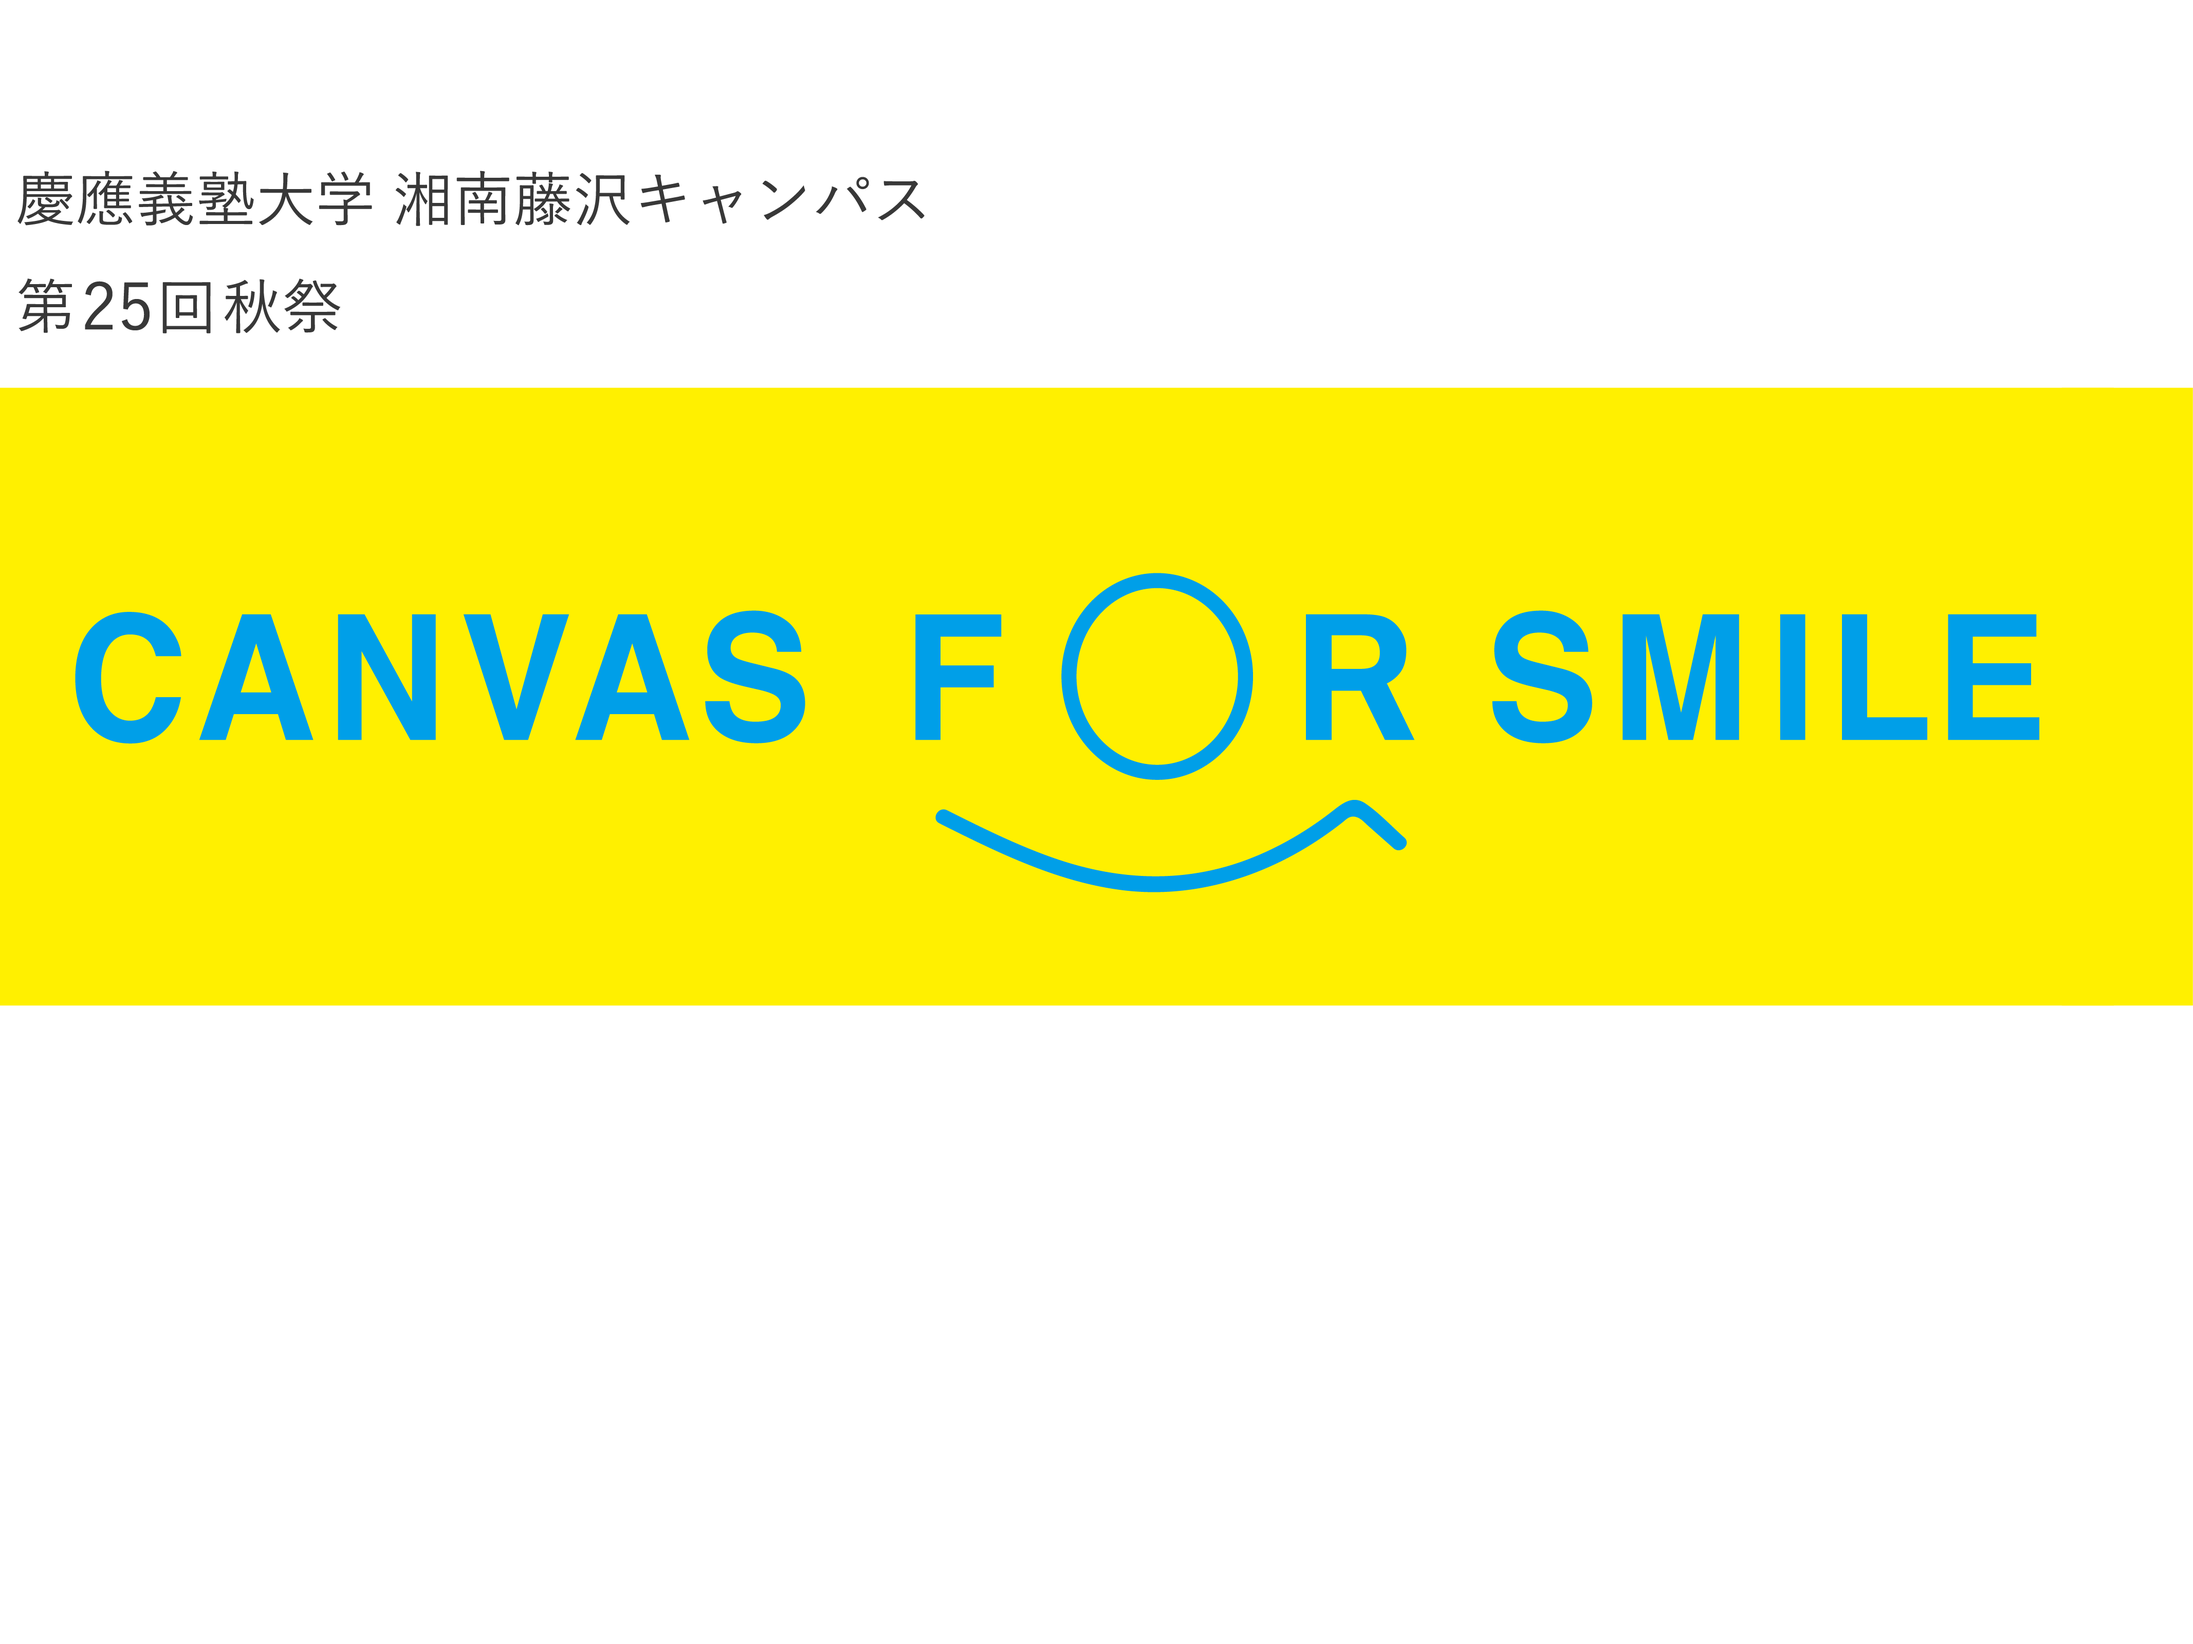
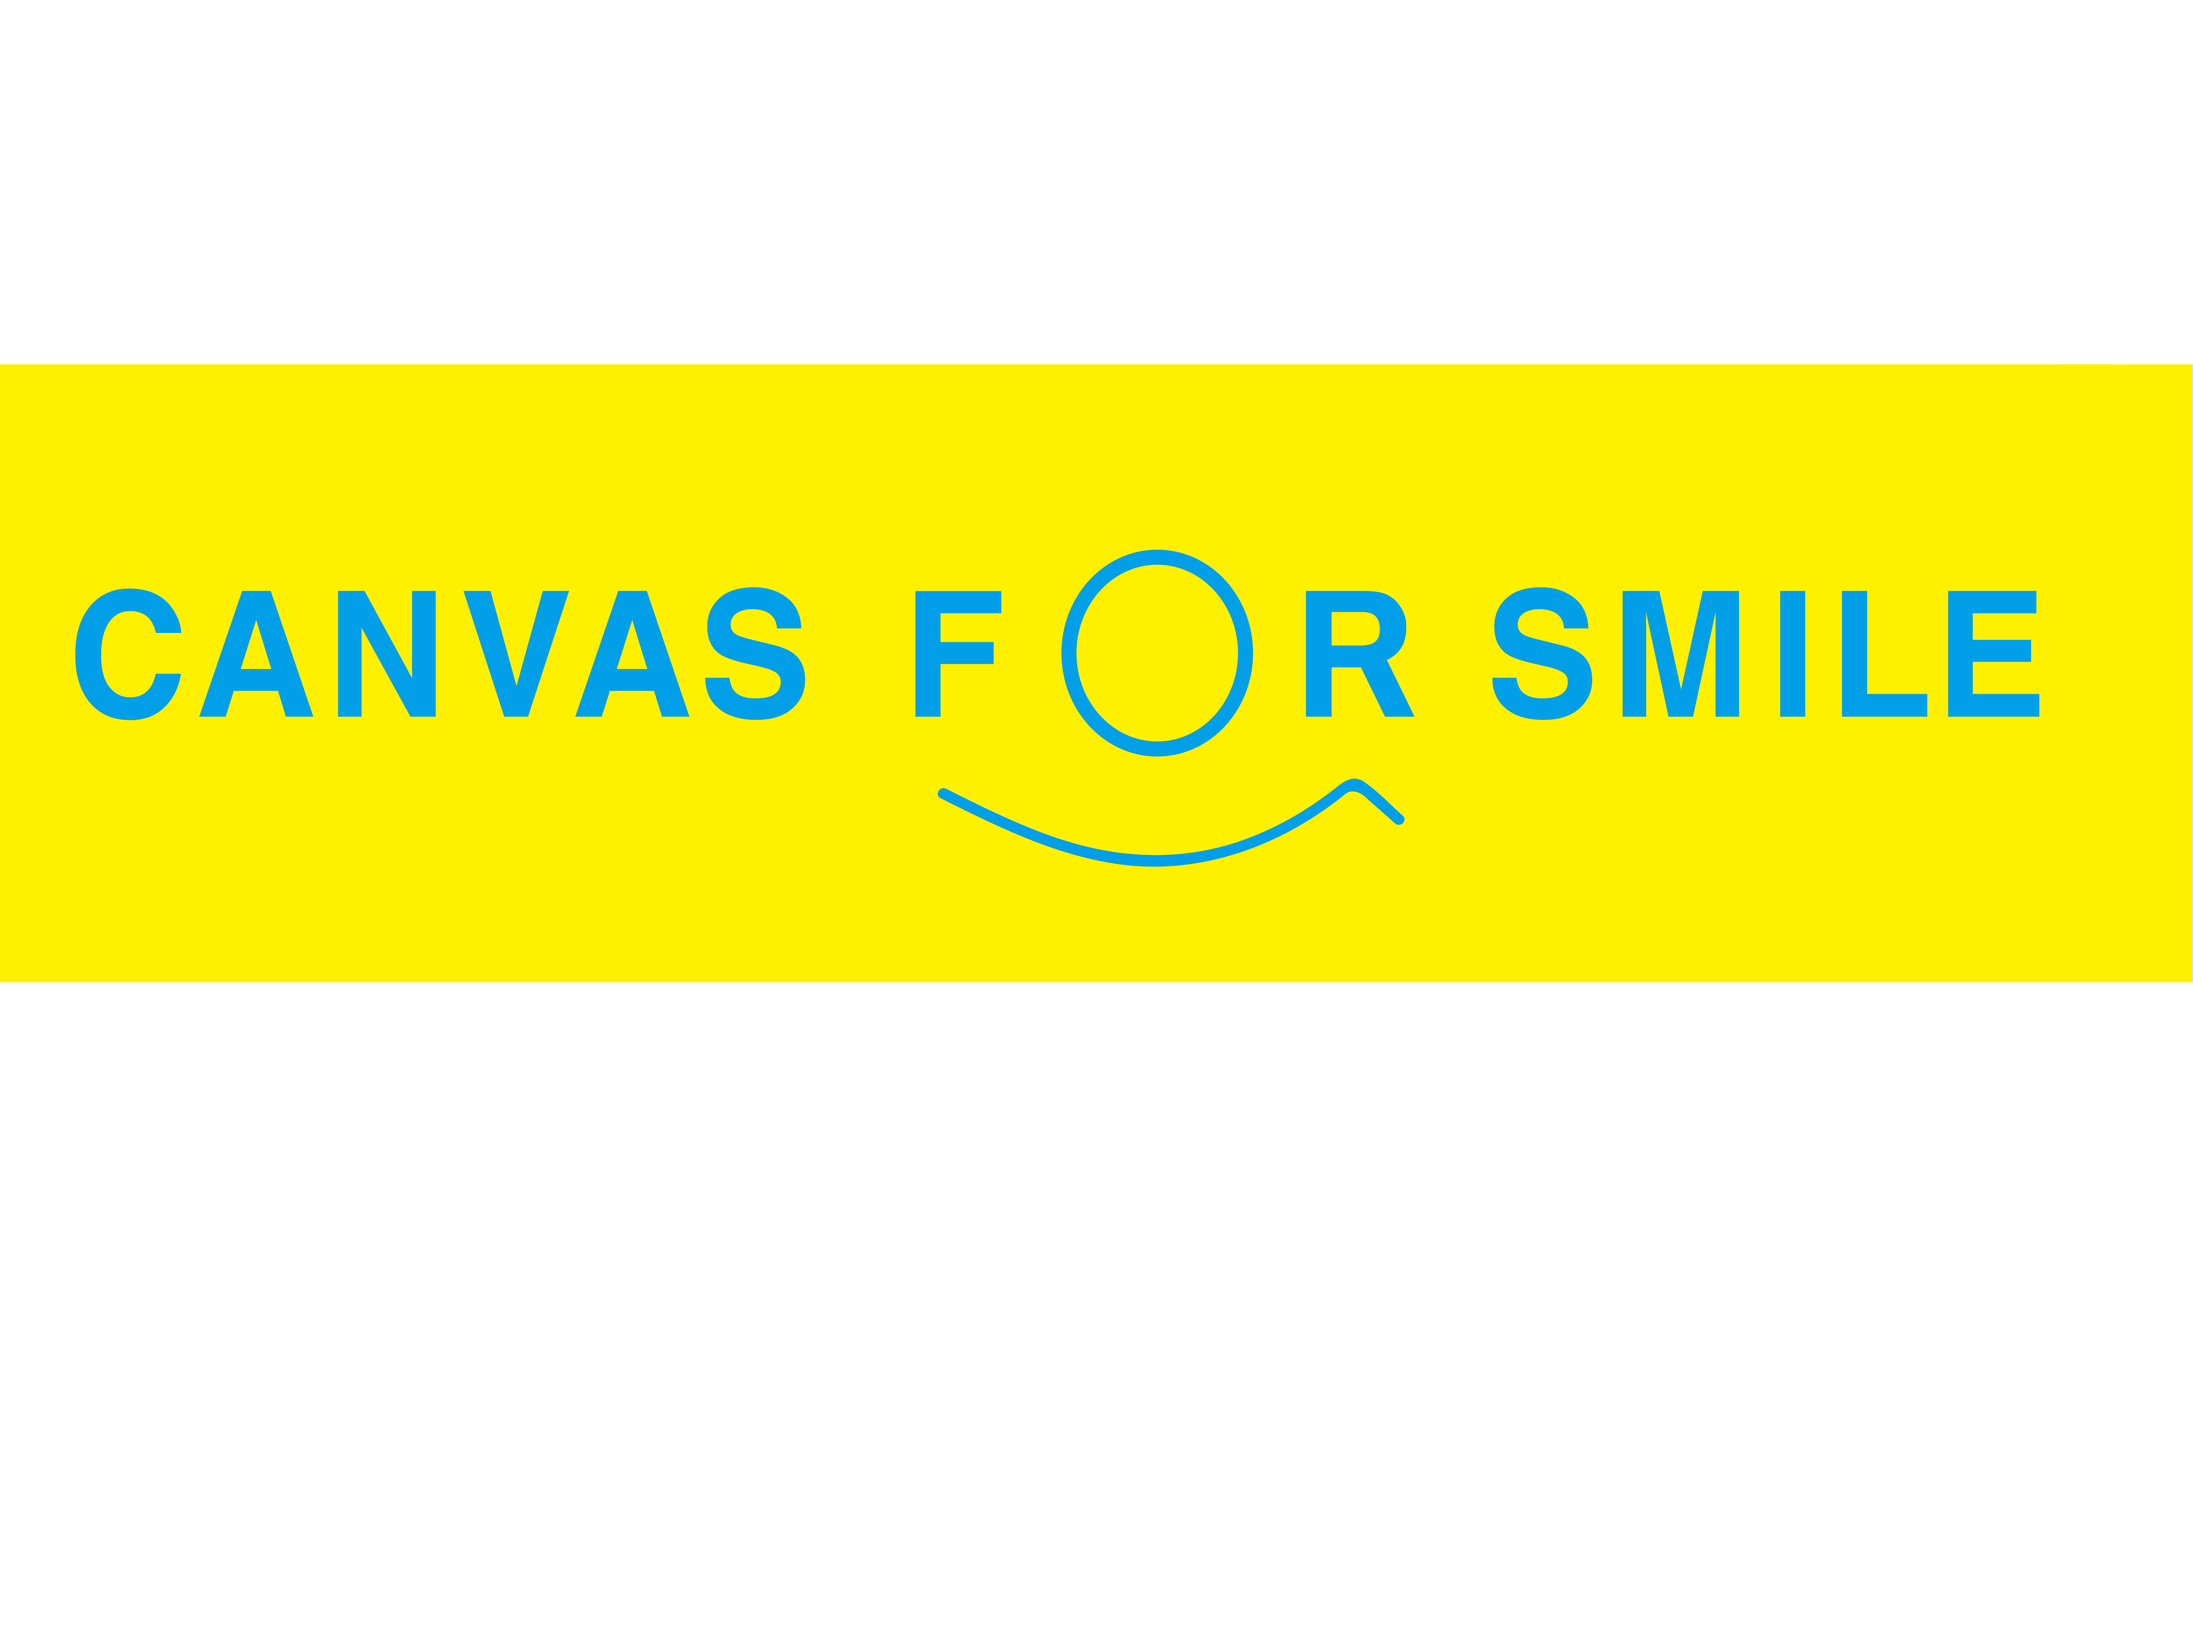
index挨拶文追加、学校名追加

diff --git a/index.html b/index.html
@@ -13,8 +13,10 @@
     <script src="index.js"></script>
 <body>
     
+    <img alt="慶應義塾大学　湘南藤沢キャンパス　第25回秋祭" id="keio1" width="100%" src="img/akisai_web_keio1.png">
+    
     <div id="left_side">
-
+        
         
         <ul>
             <li class="sidemenu"><a href="#" id="smoothplay1_a" class="line"><img id="about" alt="about" src="img/about.png" width="100%"></a></li>
@@ -28,8 +30,13 @@
         </ul>
     </div>
     <div id="topmenu">
-        <img alt="慶應義塾大学　湘南藤沢キャンパス　第25回秋祭" id="keio" width="55%" src="img/akisai_web_keio.png">
+        <img alt="慶應義塾大学　湘南藤沢キャンパス　第25回秋祭" id="keio2" width="56%" src="img/akisai_web_keio.png">
         <img alt="logo" id="logo" width="100%" src="img/logo.png">
+        <span id="top_greeding2">
+        ご理解、ご賛同を頂いている皆様のご協力を賜りまして昨年度も盛大に第24回秋祭を執り行うことが出来ました。<br>この場を借りまして厚く御礼申し上げます。
+本年度の第25回秋祭、並びに秋祭実行委員会をどうぞよろしくお願い致します。
+        </span>
+        
         <ul>
         <li class="smart_menu"><a href="about.html"><img id="smart_about" alt="about" src="img/about_icon.png" width="100%"></a></li>
         <li class="smart_menu"><a href="news.html"><img id="smart_news" alt="about" src="img/news_icon.png" width="100%"></a></li>
@@ -42,9 +49,14 @@
  </div>
     
     <div id="right_side">
-     
+
         <div id="smoothplay"><img id="akisai_web_top" class="contents" src="img/akisai_web_top.png" alt="画像" width="100%">
         </div>
+        <span id="top_greeding1">
+        ご理解、ご賛同を頂いている皆様のご協力を賜りまして昨年度も盛大に第24回秋祭を執り行うことが出来ました。<br>この場を借りまして厚く御礼申し上げます。
+本年度の第25回秋祭、並びに秋祭実行委員会をどうぞよろしくお願い致します。
+        
+        </span>
         <div id="smoothplay1" class="contents">
                 <h1><br>秋祭とは？</h1>
                 <span id="akisaitoha">
@@ -114,7 +126,7 @@
 				<h1><br>秋祭の様子</h1>
             <img id="camera" alt="camera" src="img/camera.png" width="45%">
         <span id="gallery_text">現在準備中です。<br>
-            昨年度秋祭の当日の写真や実行委員準備風景など更新予定です。<br>
+            昨年度秋祭の当日写真や実行委員準備風景など更新予定です。<br>
             </span>
         </div>
         <div id="smoothplay7" class="contents">

diff --git a/css/index.css b/css/index.css
@@ -13,6 +13,7 @@ html,body{
     display: none;
     width: 100%;   
 }
+/*
 .contents{
     width: 100%;
     height: 90%;
@@ -134,63 +135,73 @@ h1{
     font-size: 20px;
     letter-spacing: 4px;
 }
-
+*/
 
 #topmenu{
     display: block;
 }
-#keio{
+#keio2{
     position: absolute;
     top:4%;
+}
+#keio1{
+    width: 0%;
+    display: none;
 }
 #logo{
     position: absolute;
     top: 15%;   
 }
+#top_greeding2{
+    position: absolute;
+    font-size: 13px;
+    top: 35%;
+    text-align: center
+}
 .smart_menu{
     float: left;
 }
 #smart_about{
-    width: 28%;
+    width: 34%;
     position:absolute;
-    top: 60%;
-    left:35%;
+    top: 64%;
+    left:31%;
 }
 #smart_news{
     width: 20%;
     position:absolute;
-    top: 57%;
+    top: 65%;
     left:5%;
 }
 #smart_sponsor{
     width: 30%;
     position:absolute;
-    top: 74%;
+    top: 82%;
     left:6%;
 }
 #smart_access{
     width: 22%;
     position:absolute;
-    top: 53%;
-    left:67%;
+    top: 55%;
+    left:62%;
 }
 #smart_contact{
     width: 26%; 
     position:absolute;
-    top: 90%;
-    left:31%;
+    top: 93%;
+    left:37%;
 }
 #smart_gallery{
     width: 31%;
     position:absolute;
-    top: 75%;
+    top: 80%;
     left:60%;
 }
 #smart_shinkan{
     width: 19%;
     position:absolute;
-    top: 43%;
-    left:26%;
+    top: 53%;
+    left:24%;
 }
     
 #smart_about:hover{
@@ -307,8 +318,14 @@ animation: rumble 0.9s linear infinite;
 @media screen and (min-width:641px){
 html,body{
     display: block;
-    color: dimgray;
+    color: #555555;
     font-family: YuGothic, '游ゴシック', sans-serif;
+}
+#keio1{
+    position: absolute;
+    width: 13%;
+    top: 5%;
+    left: 5%;
 }
 #left_side{
     width: 20%;
@@ -318,8 +335,8 @@ html,body{
 }
 .sidemenu{
     display: block;
-    width: 64%;
-    margin: 10% 13%;
+    width: 66%;
+    margin: 7% 13%;
     transition: all 0.3s ease;
     -webkit-transition: all 0.25s ease;
 }
@@ -337,7 +354,7 @@ html,body{
 }
 
 #smoothplay1_a{
-    margin-top: 60%;
+    margin-top: 97%;
 }
 .line{
     position: relative;
@@ -387,6 +404,7 @@ html,body{
     height: 800px;
     float: right;
     position: relative;
+    z-index: 0;
 }
 
 .contents{
@@ -397,6 +415,17 @@ html,body{
 #smoothplay1{
     position: absolute;
     position: relative;  
+}
+#akisai_web_top{
+    z-index: 0;
+}    
+#top_greeding1{
+    z-index: 1;
+    position: absolute;
+    top: 70%;
+    left: 4%;
+    text-align: center;
+    font-size: 18px;
 }
 #akisaitoha{
     position: absolute;

diff --git a/news.html b/news.html
@@ -40,7 +40,7 @@
             <div id="greeding">
                 <span id="aisatu">更新履歴
                 </span>
-                <span id="honbun"><br><br>4/1  :  第25回秋祭　公式ホームページ公開いたしました。
+                <span id="honbun"><br><br>4/2  :  第25回秋祭　公式ホームページ公開いたしました。
                 </span>
           </div>
             
